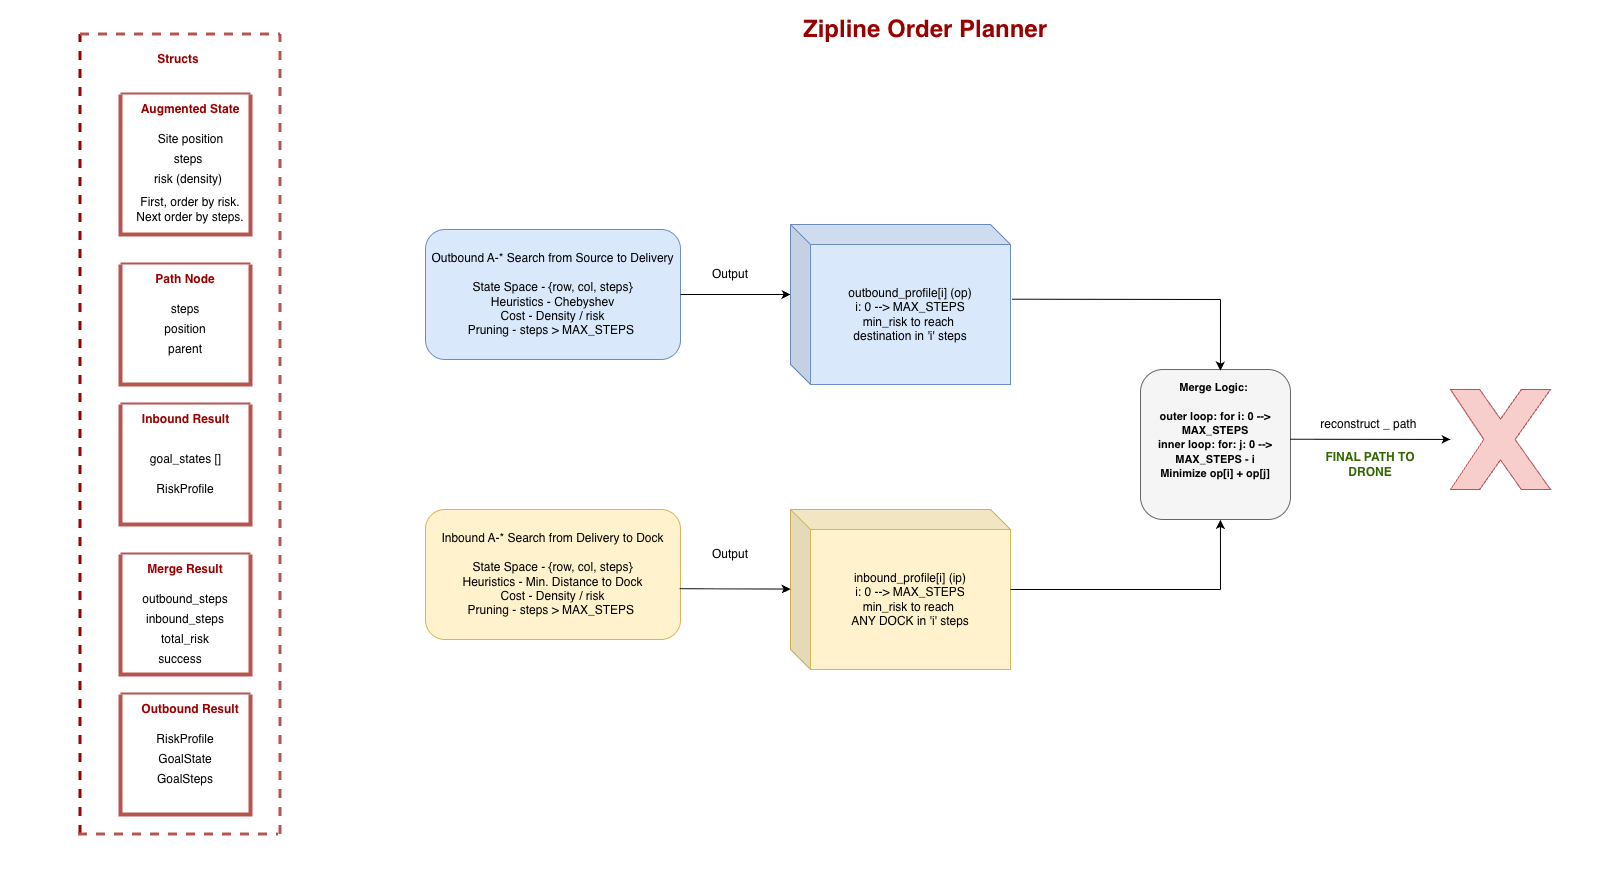
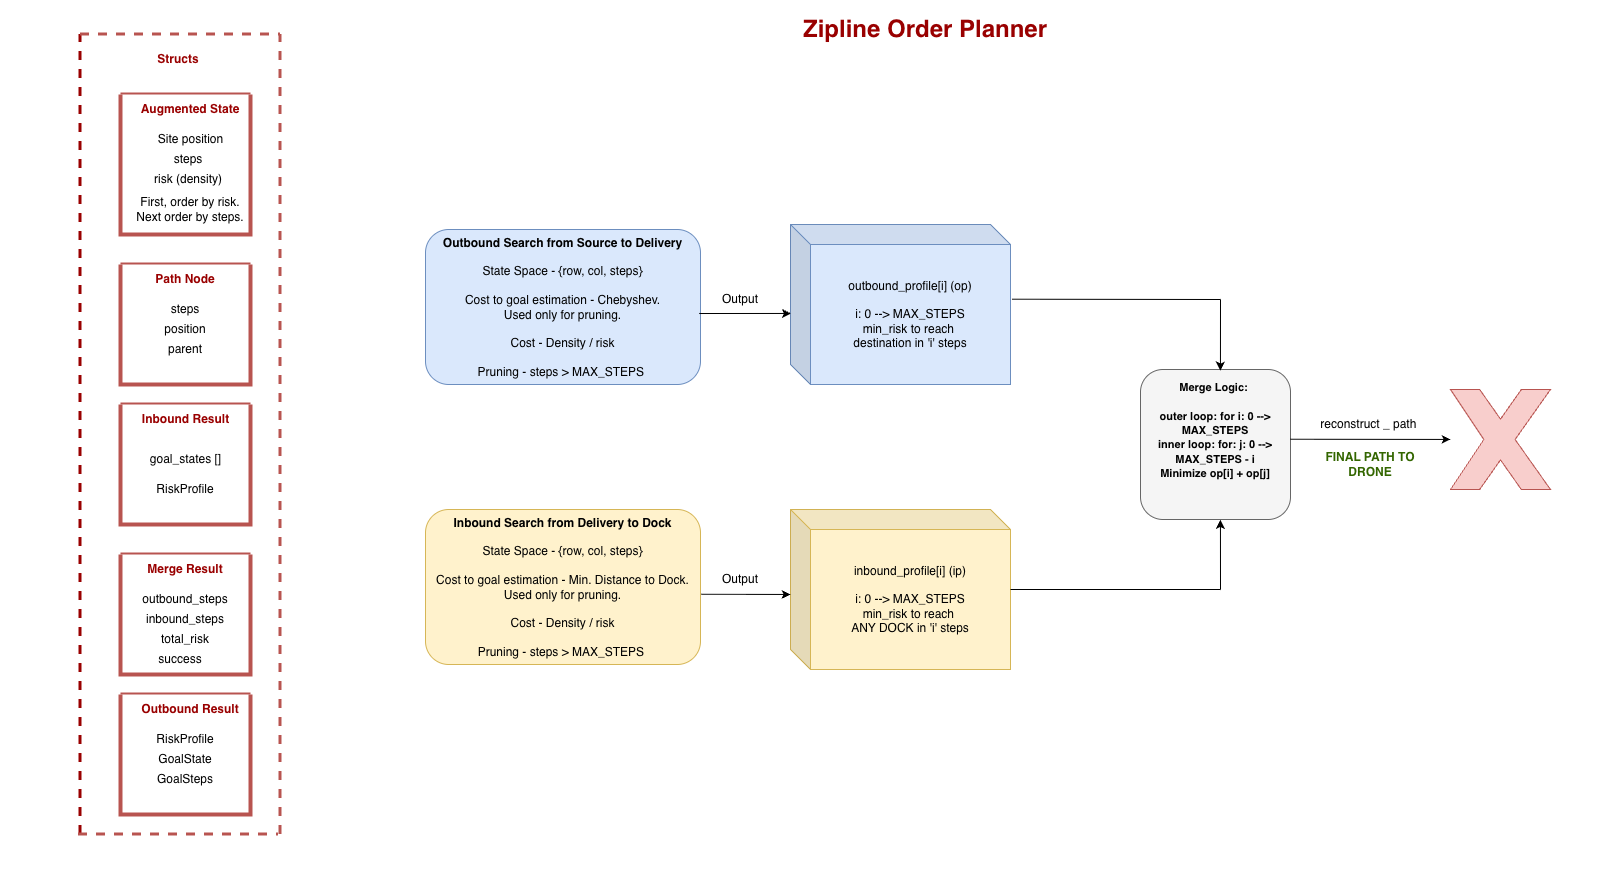
corrected some thigs, removed a-*

diff --git a/SOLUTION.md b/SOLUTION.md
@@ -4,13 +4,21 @@
 
 The path planner uses a **Constrained Shortest Path Problem (CSPP)** approach to find optimal routes. The algorithm operates in three phases:
 
-1. **Outbound Search**: Starting from the origin dock, the planner performs A* search for paths to the delivery location. It explores all possible routes while tracking both the number of steps taken and the accumulated population density (risk) along each path. Output of this phase is a risk profile for steps 0 to MAX_STEPS (110) where outbound_profile[i] is the minimum density or risk needed to reach delivery site in 'i' steps.
+1. **Outbound Search**: Starting from the origin dock, the planner performs a search on the augmented state space `(position, steps)` to find paths to the delivery location. It explores all possible routes while tracking both the number of steps taken and the accumulated population density (risk). The output is a **Risk Profile** for steps 0 to MAX_STEPS (110), where `outbound_profile[k]` is the strict minimum density (risk) required to reach the delivery site in exactly `k` steps.
 
-2. **Inbound Search**: Independently, the planner performs A* search from the delivery location to find paths to any available dock. Similar to the outbound phase, it tracks steps and density for all possible routes. Output of this phase similarly, is a risk profile for steps 0 to MAX_STEPS (110) where inbound_profile[i] is the mimimun density or risk needed to reach ANY doc from the delivery site in 'i' steps. Note that i here also ranges from 0 to MAX_STEPS, because, the searches are independent.
+2. **Inbound Search**: Independently, the planner performs a similar augmented search from the delivery location to find paths to *any* available dock. The output is a risk profile `inbound_profile[k]`, representing the minimum risk to reach a dock from the delivery site in exactly `k` steps.
 
-3. **Profile Merging**: The planner combines the results from both phases to find the optimal split between outbound and inbound steps. It selects the combination that minimizes total population density while ensuring the combined path length stays within the 110-step budget by running two loops ; one for outbound from 0 to MAX_STEPS (i) and one for inbound from 0 to MAX_STEPS - i (j) and picking the min(outbound[i] + inbound[j]).
+3. **Profile Merging**: The planner combines the results from both phases to find the optimal split between outbound and inbound steps. It selects the combination that minimizes total population density while ensuring the combined path length stays within the 110-step budget. This is achieved by iterating through all valid `(i, j)` pairs such that `i + j <= 110` and selecting the pair minimizing `outbound_profile[i] + inbound_profile[j]`.
 
-The algorithm uses an augmented state space where each state represents `(position, steps_taken, accumulated_density)`. This allows the planner to simultaneously optimize for both path length (constrained to ≤110 steps) and population density (minimized). The search uses heuristics to efficiently explore the space while guaranteeing optimality within the step constraint. (See Appendix A for detailed optimality guarantees.)
+The algorithm uses an augmented state space where each state represents `(position, steps_taken, accumulated_density)`. This allows the planner to simultaneously optimize for both path length (constrained to ≤110 steps) and population density (minimized). The algorithm uses an augmented state space where each state is distinct based on `(position, steps_taken)`. This allows the planner to simultaneously optimize for both path length (constrained to ≤110 steps) and population density (minimized). (See Appendix A for detailed optimality guarantees.)
+
+![Planner Architecture](visualizer/Planner_Zipline.png)
+
+**Search Strategy**: The planner utilizes **Dijkstra's Algorithm** on the augmented state graph. The Priority Queue orders states primarily by **Accumulated Risk**, ensuring that the first time a state `(Location, Steps)` is finalized, it represents the minimum risk path to that specific state.
+
+### Cost Functions and Heuristics
+
+**Cost Function**: The cost optimized is the accumulated sum of population densities (Risk):
 
 ![Planner Architecture](visualizer/Planner_Zipline.png)
 
@@ -22,17 +30,12 @@ g(s) = Σ_{i=1}^{steps} density(position_i)
 ```
 where `g(s)` represents the accumulated density (risk) from the start to state `s`.
 
-**Outbound Heuristic**: For the outbound search (origin → delivery), I use the Chebyshev distance (L∞ norm) to the delivery location:
-```
-h_outbound(s) = max(|e_s - e_delivery|, |n_s - n_delivery|)
-```
-This heuristic is admissible (never overestimates) because the minimum steps required to reach the goal in an 8-connected grid is exactly the Chebyshev distance.
 
-**Inbound Heuristic**: For the inbound search (delivery → dock), I use a pre-computed distance transform via BFS from all docks:
-```
-h_inbound(s) = min_{dock ∈ Docks} distance_BFS(s, dock)
-```
-This heuristic is also admissible as it represents the true minimum steps to reach the nearest dock.
+**Feasibility Pruning (Heuristics)**: While the search is driven by density cost, it employs spatial heuristics to prune paths that cannot possibly reach the goal within the step budget.
+* **Outbound Pruning**: `steps_taken + Chebyshev_Distance(current, target) > 110`
+* **Inbound Pruning**: `steps_taken + BFS_Distance(current, nearest_dock) > 110`
+
+These heuristics are **admissible with respect to steps**, ensuring that we never prune a path that could theoretically complete the mission within the budget.
 
 **Priority Queue Ordering**: States are ordered by accumulated density (risk), with ties broken by step count:
 ```
@@ -198,7 +201,7 @@ The CSPP approach provides **provable optimality** in terms of density minimizat
 π* = argmin_{π: |π| ≤ B} Σ_{v ∈ π} density(v)
 ```
 
-**Proof Sketch**:
+**Proof of Correctness**:
 
 1. **Complete State Space Exploration**: By augmenting the state space to `S = {(position, steps) : steps ≤ B}`, the algorithm explores all feasible paths. For each state `s = (pos, k)`, it maintains:
    ```
@@ -222,7 +225,7 @@ The CSPP approach provides **provable optimality** in terms of density minimizat
    ```
    This exhaustive evaluation guarantees the globally optimal solution.
 
-4. **Admissible Heuristics**: The heuristics used are admissible (never overestimate), ensuring A* optimality. The step-based pruning `steps + h(s) > B` is sound because it only eliminates states that cannot reach the goal within the budget.
+4. **Feasibility Pruning**: The heuristic functions `h(s)` (Chebyshev/BFS distance) are used strictly for **pruning**. A state is discarded only if `current_steps + h(s) > MAX_STEPS`. Since `h(s)` is admissible (it never overestimates the minimum steps required), this pruning never discards a feasible solution, preserving optimality.
 
 5. **No Budget Myopia**: Unlike sequential planning, the merge phase evaluates all valid `(k₁, k₂)` pairs simultaneously, preventing suboptimal, myopic budget allocation.
 
